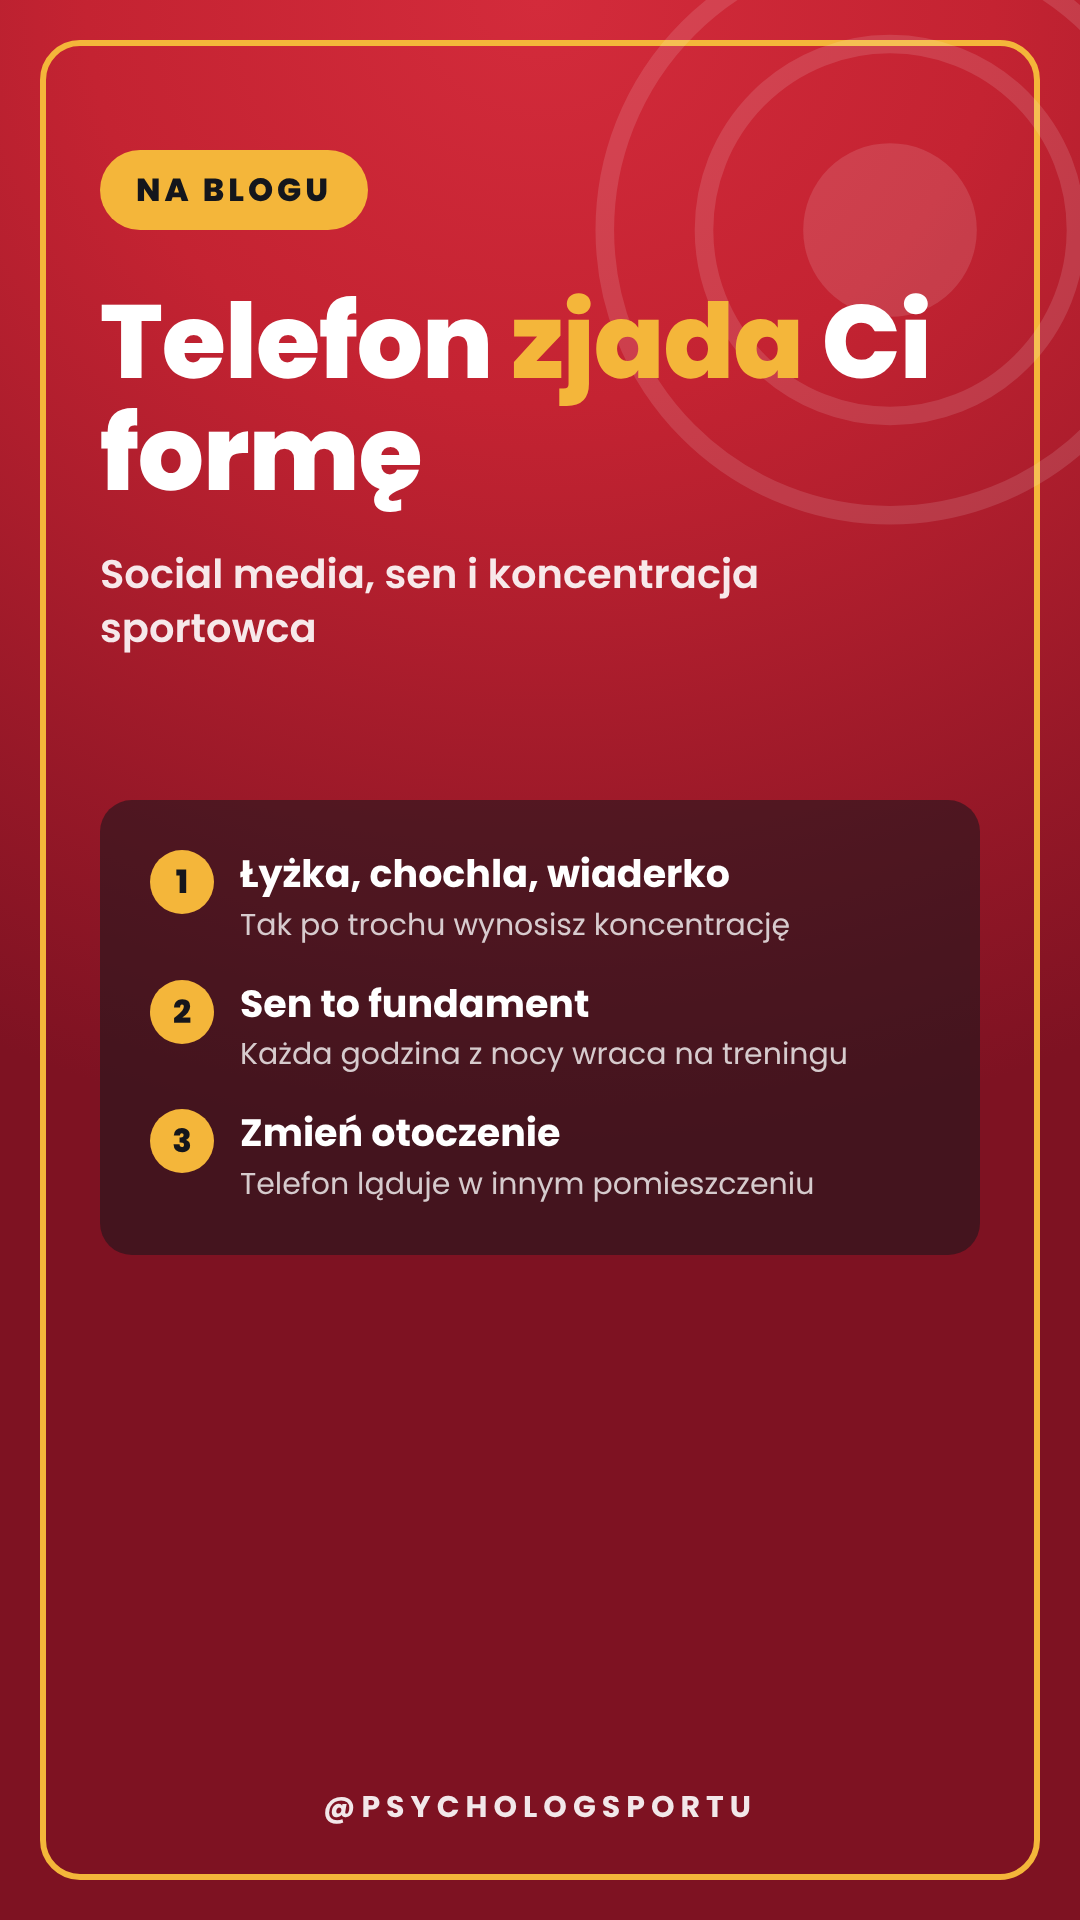
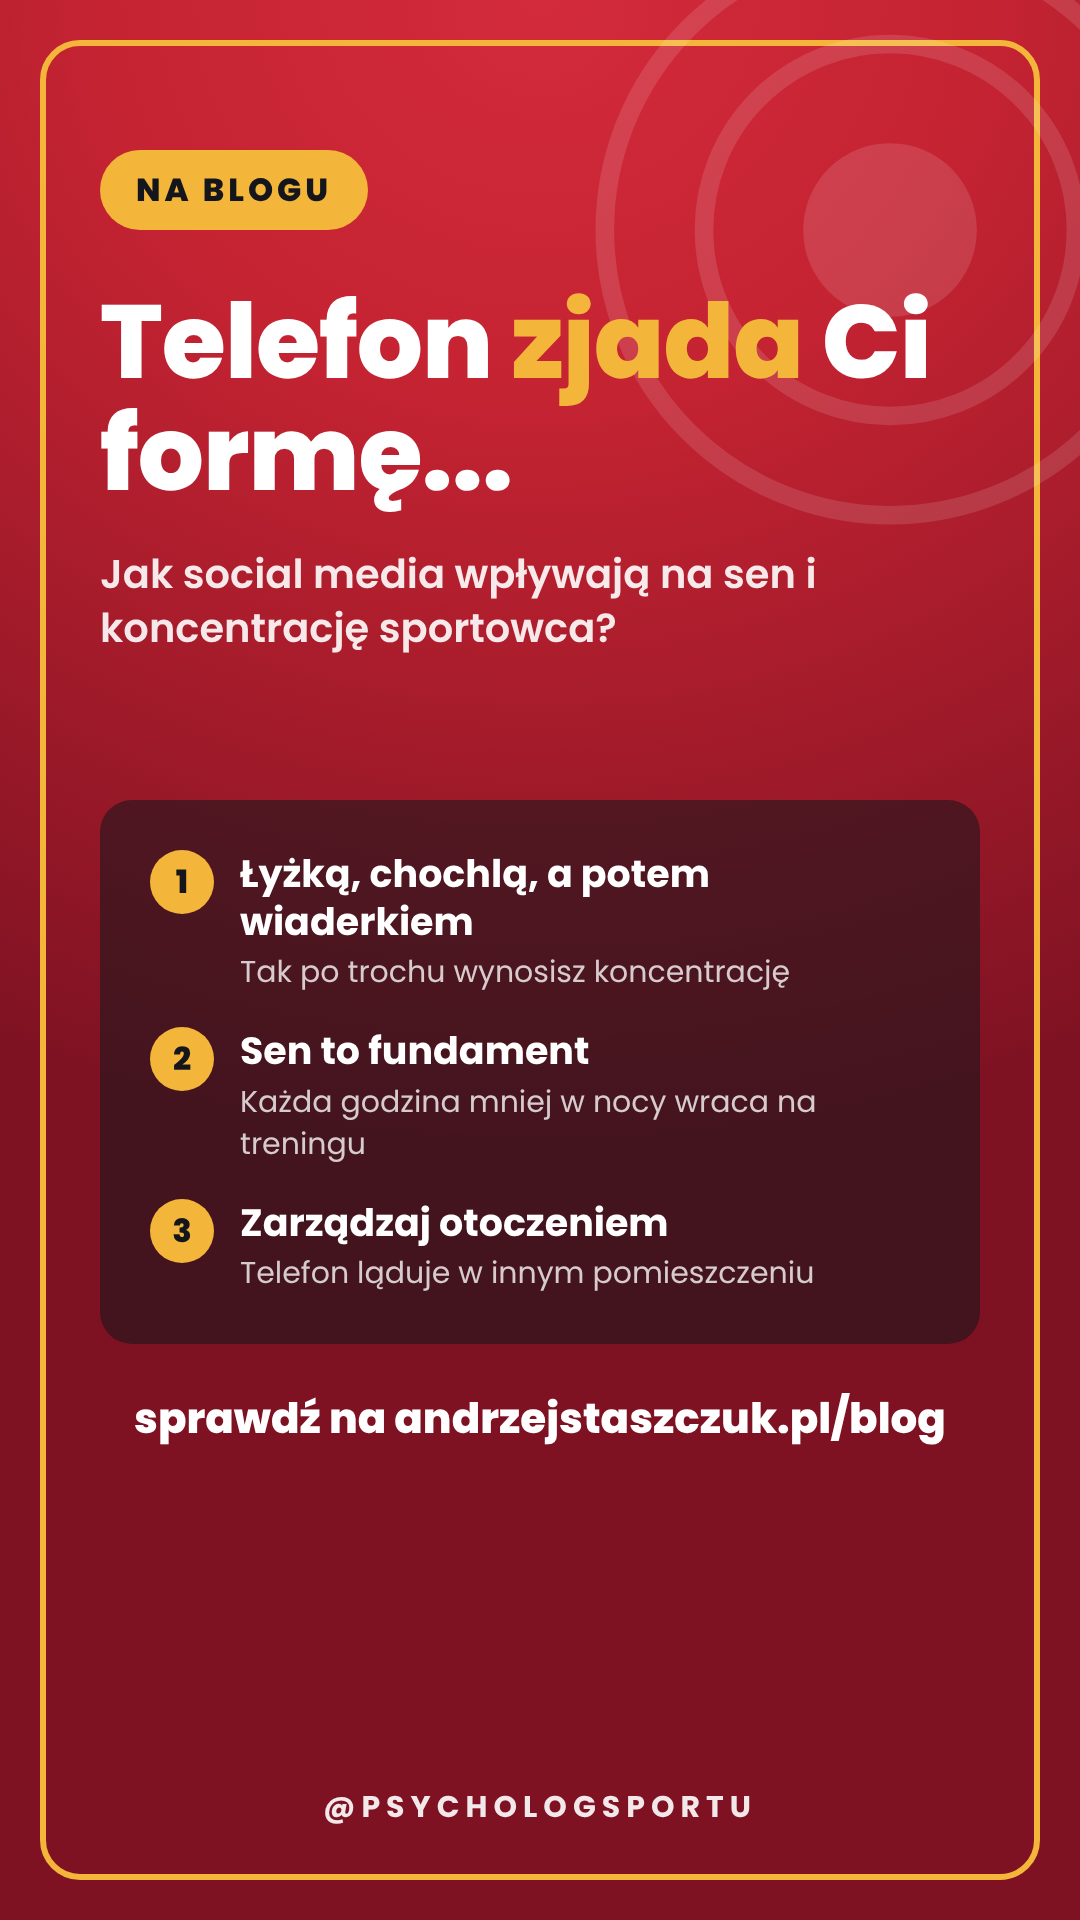
Relacja telefon: poprawki Andrzeja z panelu + zasady
Claude-Session: https://claude.ai/code/session_01A5PTvWpyS7iEo6fG2kmJPS

Changed region(s): [[0.0917, 0.4375, 0.9167, 0.75], [0.0917, 0.2188, 0.7639, 0.3438]]

diff --git a/relacje-marki/UWAGI-ANDRZEJA.md b/relacje-marki/UWAGI-ANDRZEJA.md
@@ -1,0 +1,7 @@
+# Uwagi Andrzeja do relacji (uczę się z jego poprawek)
+
+- 26.11.2026: relacje z bloga bez strzałki; nazwa naklejki z linkiem = tytuł wpisu.
+- 26.11.2026 (telefon): podtytuł jako pytanie do czytelnika (Jak social media wpływają na sen i koncentrację sportowca?), nie suche wyliczenie tematów.
+- 26.11.2026 (telefon): punkty pełniejszym, obrazowym zdaniem z jego metafory (Łyżką, chochlą, a potem wiaderkiem), nie samymi rzeczownikami.
+- 26.11.2026 (telefon): punkty jako polecenie do działania (Zarządzaj otoczeniem), konkretniej (Każda godzina mniej w nocy).
+- 26.11.2026 (telefon): na dole napis z adresem: sprawdź na andrzejstaszczuk.pl/blog (nad miejscem na naklejkę); tytuł może kończyć się wielokropkiem.
